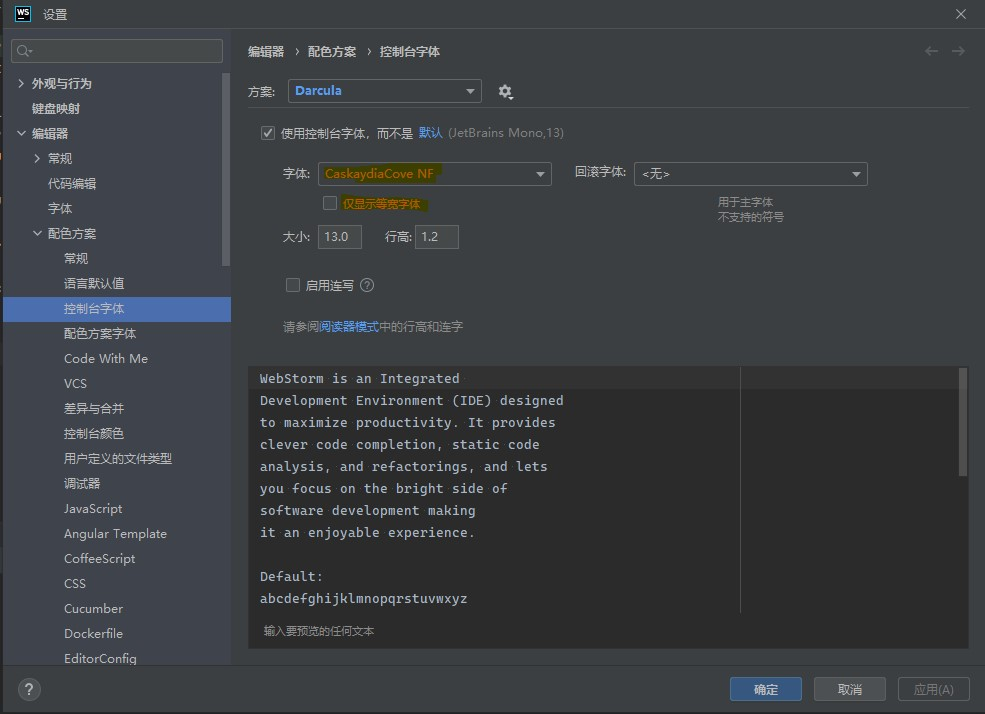
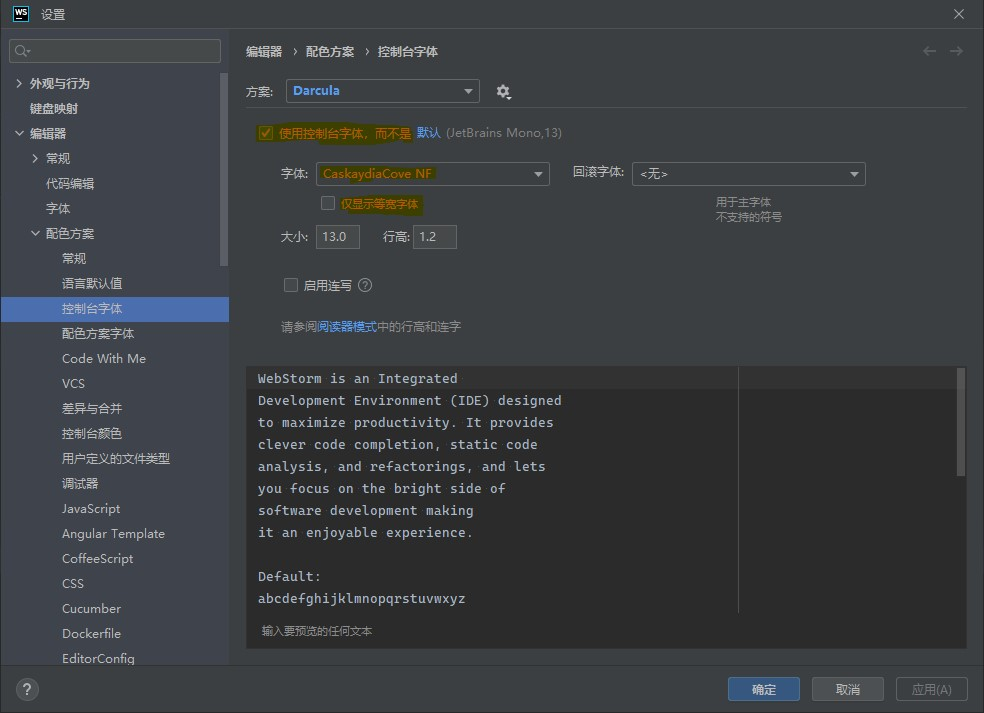
换图

diff --git a/source/_posts/PowerShell美化.md b/source/_posts/PowerShell美化.md
@@ -129,6 +129,6 @@ Set-PoshPrompt -Theme agnosterplus # 设置主题为agnosterplus
 点击“文件-首选项-设置”，搜索“字体”，跳转到“功能-终端”，在“Terminal>Integrated:Font Family”中填写`CaskaydiaCove NF`
 ![](img/115155.jpg)
 ### 配置IntelliJ IDEA based IDE终端及字体
-在设置中导航到 “编辑器-配色方案-控制台字体”，然后取消勾选“仅显示等宽字体”，选择下载的 NF 字体即可
 ![](img/120314.jpg)
+在设置中导航到 “编辑器-配色方案-控制台字体”，勾选“使用控制台字体，而不是...”，然后取消勾选“仅显示等宽字体”，选择下载的 NF 字体即可
 ![](img/120549.jpg)
